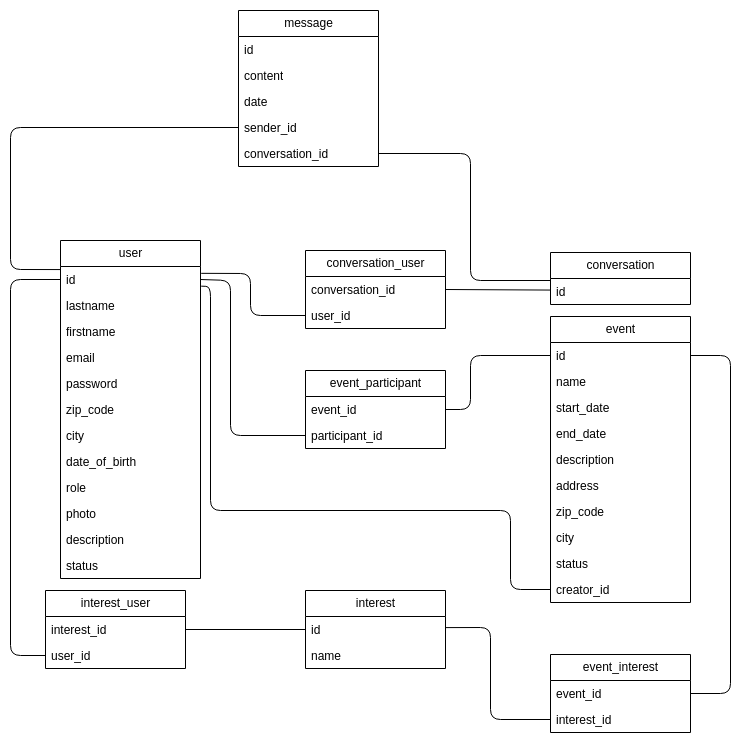
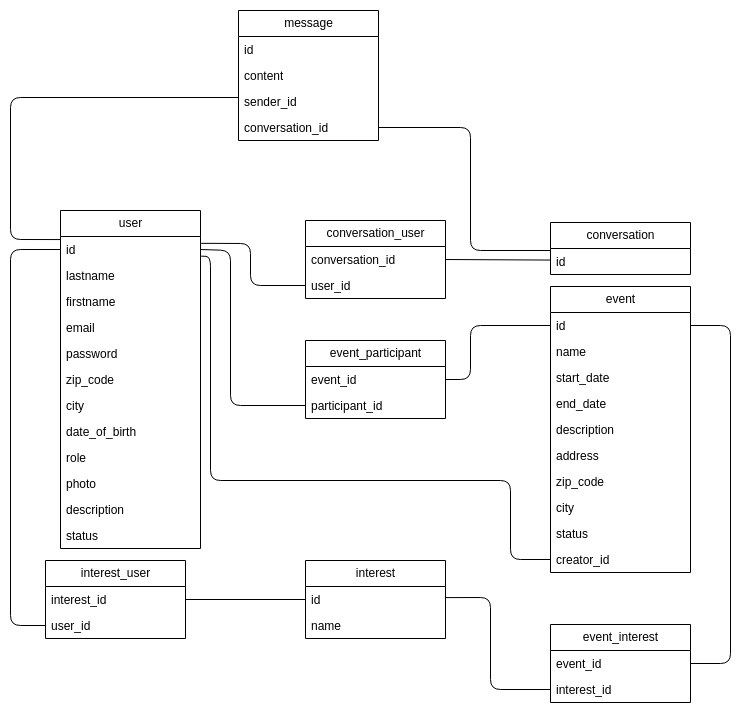
docs: modification of table message, delete date

diff --git a/conception/database_modelling/data_dictionary.md b/conception/database_modelling/data_dictionary.md
@@ -25,7 +25,6 @@
 | --- | --- | --- | --- |
 | id | INT | PRIMARY KEY, UNSIGNED, NOT NULL, AUTO_INCREMENT | L'identifiant du message |
 | content | TEXT | NOT NULL | Le contenu du message |
-| date | TIMESTAMP | NOT NULL | La date et heure de l'envoi |
 | sender_id | ENTITY | NOT NULL | L'expéditeur du message (user_id) |
 | conversation_id | ENTITY | NOT NULL | L'identifiant de la conversation qui contient le message |
 | created_at | TIMESTAMP | NOT NULL, DEFAULT CURRENT_TIMESTAMP | La date de création du message |
